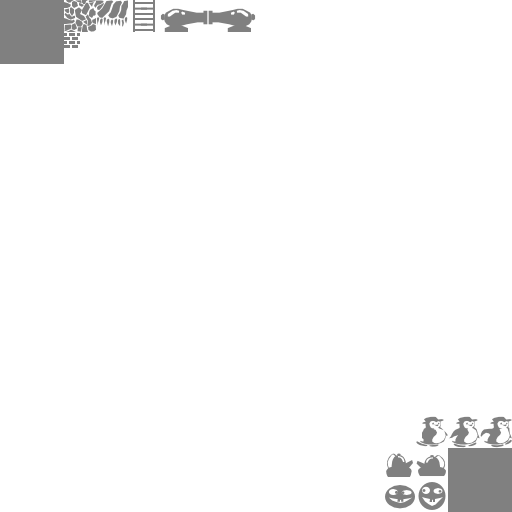
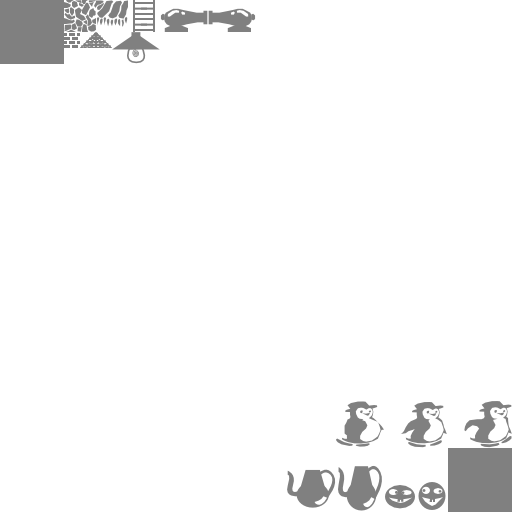
ermin right-sized

Changed region(s): [[0.5625, 0.7812, 1.0, 1.0], [0.6562, 0.7812, 0.75, 0.875], [0.1562, 0.0625, 0.3125, 0.125]]

diff --git a/src/rooms.js b/src/rooms.js
@@ -12,8 +12,8 @@ var DESCRIPTIONS = {
 }
 
 var ROOMS = {
-    start: [[0,0,0,0,0,0,0,0,0,0,0,0,0,0,0,0,0,0,0,0,0,0,0,0,0,0,0,0,0,0,8,0,3,0,3,0,3,0],[0,0,0,0,0,0,0,0,0,0,0,0,0,0,0,0,0,0,0,0,0,0,0,0,0,0,0,0,0,0,0,0,0,0,0,0,0,0],[0,0,0,0,0,0,0,0,0,0,0,0,0,0,0,0,0,0,0,0,0,0,0,0,0,0,0,0,0,0,8,0,3,0,3,0,3,0],[0,0,0,0,0,0,0,0,0,0,0,0,4,4,4,4,4,4,4,4,4,4,4,4,4,4,4,4,4,4,0,0,0,0,0,0,0,0],[0,0,0,0,0,0,0,0,0,0,0,4,0,0,0,0,0,0,0,0,0,0,0,0,0,0,0,0,0,0,8,0,3,0,3,0,3,0],[0,0,0,0,0,0,0,0,0,0,4,0,0,0,0,0,0,0,0,0,0,0,0,0,0,0,0,0,0,0,0,0,0,0,0,0,0,0],[0,0,0,0,0,0,0,0,0,0,0,4,0,4,0,0,0,0,0,0,0,0,0,0,0,0,0,0,0,0,8,0,3,0,3,0,3,0],[0,0,0,0,0,0,0,0,0,0,0,0,4,4,0,0,0,0,0,0,0,0,0,0,0,0,0,0,0,0,0,0,0,0,0,0,0,0],[0,0,0,0,0,0,0,0,0,0,0,0,0,4,0,0,0,0,0,0,0,0,0,0,0,0,0,0,0,0,8,0,3,0,3,0,3,0],[0,0,0,0,0,0,0,0,0,0,0,0,0,0,0,0,0,0,0,0,0,0,0,0,0,0,0,0,0,0,0,0,0,0,0,0,0,0],[0,0,0,0,0,0,0,0,0,0,0,0,0,0,0,0,0,0,0,0,0,0,0,0,0,0,0,0,0,0,8,0,3,0,3,0,3,0],[0,0,0,0,0,0,0,0,0,0,0,0,0,0,0,0,0,0,0,0,0,0,0,0,0,0,0,0,0,0,0,0,0,0,0,0,0,0],[0,0,0,0,0,0,0,0,0,0,0,0,0,0,0,0,0,0,0,0,0,0,0,0,0,0,0,0,0,0,8,0,3,0,3,0,3,0],[0,0,0,0,0,0,0,0,0,0,0,0,0,0,0,0,0,0,0,0,0,0,0,0,0,0,0,0,0,0,0,0,0,0,0,0,0,0],[0,0,0,0,0,0,0,0,0,0,0,0,0,0,0,0,0,0,0,0,0,0,0,0,0,0,0,0,0,0,8,0,3,0,3,0,3,0],[0,0,0,0,0,0,0,0,0,0,0,0,0,0,0,0,0,0,0,0,0,0,0,0,0,0,0,0,0,0,0,0,0,0,0,0,0,0],[0,0,0,0,0,0,0,0,0,0,0,0,0,0,0,0,0,0,0,0,0,0,0,0,0,0,0,0,0,0,8,0,3,0,3,0,3,0],[0,0,0,0,0,0,0,0,0,0,0,0,0,0,0,0,0,0,0,0,0,0,0,0,0,0,0,0,0,0,0,0,0,0,0,0,0,0],[0,0,0,0,0,0,0,0,0,0,0,0,0,0,0,0,0,0,0,0,0,0,0,0,0,0,0,0,0,0,8,0,3,0,3,0,3,0],[0,0,0,0,0,0,0,0,0,0,0,0,0,0,0,0,0,0,0,0,0,0,0,0,0,0,0,0,0,0,0,0,0,0,0,0,0,0],[0,0,0,0,0,0,0,0,0,0,0,0,0,0,0,0,0,0,0,0,0,0,0,0,0,0,0,0,0,0,8,0,3,0,3,0,3,0],[0,0,0,0,0,0,0,0,0,0,0,0,0,0,0,0,0,0,0,0,0,0,0,0,0,0,0,0,0,0,0,0,0,0,0,0,0,0],[0,0,0,0,0,0,0,0,0,0,0,0,0,0,0,0,0,0,0,0,0,0,0,0,0,0,0,0,0,0,8,0,3,0,3,0,3,0],[0,0,0,0,0,0,0,0,0,0,0,0,0,0,0,0,0,0,0,0,0,0,0,0,0,0,0,0,0,0,0,0,0,0,0,0,0,0],[0,0,0,0,0,0,0,0,0,0,0,0,0,0,0,0,0,0,0,0,0,0,0,0,0,0,0,0,0,0,8,0,3,0,3,0,3,0],[0,0,0,0,0,0,0,0,0,0,0,0,0,0,0,0,0,5,5,0,0,0,0,0,0,0,0,0,0,0,0,0,0,0,0,0,0,0],[0,0,0,0,0,0,0,0,0,0,0,0,0,0,0,0,0,5,5,0,14,0,0,0,0,0,0,0,0,0,8,0,3,0,3,0,3,0],[0,0,0,0,0,0,0,0,0,0,0,0,0,0,0,0,0,5,5,0,0,0,0,0,0,0,0,0,0,0,0,0,0,0,0,0,0,0],[0,0,0,0,0,0,0,0,0,0,0,0,0,0,0,0,0,5,5,0,0,0,0,0,0,0,0,0,0,0,8,0,3,0,3,0,3,0],[0,0,0,0,0,0,0,0,0,0,0,0,0,0,0,0,0,5,5,0,0,0,0,0,0,0,0,0,0,0,0,0,0,0,0,0,0,0],[0,0,0,0,0,0,0,0,0,0,0,0,0,0,0,0,5,4,1,0,1,0,1,0,1,0,0,0,0,0,8,0,3,0,3,0,3,0],[0,0,0,0,0,0,0,0,0,0,0,0,0,0,0,5,4,4,0,0,0,0,0,0,0,0,0,0,0,0,0,0,0,0,0,0,0,0],[0,0,0,0,0,0,0,0,0,0,0,0,0,0,5,4,4,4,1,0,1,0,1,0,1,0,0,0,0,0,8,0,3,0,3,0,3,0],[0,0,0,0,0,0,0,0,0,0,0,0,0,5,4,4,4,4,0,0,0,0,0,0,0,0,0,0,0,0,0,0,0,0,0,0,0,0],[0,0,0,0,0,0,0,0,0,0,0,0,5,4,4,4,4,0,1,0,1,0,0,0,0,0,0,0,0,0,8,0,3,0,3,0,3,0],[0,0,0,0,0,0,0,0,0,0,0,5,4,4,4,4,0,0,0,0,0,0,0,0,0,0,0,0,0,0,0,0,0,0,0,0,0,0],[0,0,0,0,0,0,0,0,0,0,5,4,4,4,4,0,0,0,1,0,1,0,0,0,0,0,0,0,0,0,8,0,3,0,3,0,3,0],[0,0,0,0,0,0,0,0,0,5,4,4,4,4,0,0,0,0,0,0,0,0,0,0,0,0,0,0,0,0,0,0,0,0,0,0,0,0],[0,0,0,0,0,0,0,0,5,4,4,4,4,0,0,0,0,0,1,0,1,0,0,0,0,0,0,0,0,0,8,0,3,0,3,0,3,0],[0,0,0,0,0,0,0,5,4,4,4,4,0,0,0,0,0,0,0,0,0,0,0,0,0,0,0,0,0,0,0,0,0,0,0,0,0,0],[0,0,0,0,0,0,5,4,4,4,4,0,0,0,0,0,0,0,1,0,1,0,0,0,0,0,0,0,0,0,8,0,3,0,3,0,3,0],[0,0,0,0,0,5,4,4,4,4,0,0,0,0,0,0,0,0,0,0,0,0,0,0,0,0,0,0,0,0,0,0,0,0,0,0,0,0],[0,0,0,0,5,4,4,4,4,0,0,0,0,0,0,0,0,0,1,0,1,0,0,0,0,0,0,0,0,0,8,0,3,0,3,0,3,0],[0,0,0,0,5,4,4,4,4,0,0,0,0,0,0,0,0,0,0,0,0,0,0,0,0,0,0,0,0,0,0,0,0,0,0,0,0,0],[0,0,0,0,5,4,4,4,4,0,0,0,0,0,0,0,0,0,1,0,1,0,0,0,0,0,0,0,0,0,8,0,3,0,3,0,3,0],[0,0,0,0,5,4,4,4,4,0,0,0,0,0,0,0,0,0,0,0,0,0,0,0,0,0,0,0,0,0,0,0,0,0,0,0,0,0],[0,0,0,0,5,4,4,4,4,0,0,0,0,0,0,0,0,0,1,0,1,0,0,0,0,0,0,0,0,0,8,0,3,0,3,0,3,0],[0,0,0,0,5,4,4,4,4,0,0,0,0,0,0,0,0,0,0,0,0,0,0,0,0,0,0,0,0,0,0,0,0,0,0,0,0,0],[0,0,0,0,1,0,1,0,1,0,0,0,0,0,0,0,0,0,1,0,1,0,0,0,0,0,0,0,0,0,8,0,3,0,3,0,3,0],[0,0,0,0,0,0,0,0,0,0,0,0,0,0,0,0,0,0,0,0,0,0,0,0,0,0,0,0,0,0,0,0,0,0,0,0,0,0]],
+    start: [[0,0,0,0,0,0,0,0,0,0,0,0,0,0,0,0,0,0,0,0,0,0,0,0,0,0,0,0,0,0,8,0,3,0,3,0,3,0],[0,0,0,0,0,0,0,0,0,0,0,0,0,0,0,0,0,0,0,0,0,0,0,0,0,0,0,0,0,0,0,0,0,0,0,0,0,0],[0,0,0,0,0,0,0,0,0,0,0,0,5,0,0,0,0,0,0,0,0,0,0,0,0,0,0,0,0,0,8,0,3,0,3,0,3,0],[0,0,0,0,0,0,0,0,0,0,0,15,5,5,5,5,4,4,4,4,4,4,4,4,4,4,4,4,4,4,0,0,0,0,0,0,0,0],[0,0,0,0,0,0,0,0,0,0,15,5,0,0,0,0,0,0,0,0,0,0,0,0,0,0,0,0,0,0,8,0,3,0,3,0,3,0],[0,0,0,0,0,0,0,0,0,0,5,0,0,0,0,0,0,0,0,0,0,0,0,0,0,0,0,0,0,0,0,0,0,0,0,0,0,0],[0,0,0,0,0,0,0,0,0,0,16,5,0,17,0,0,0,0,0,0,0,0,0,0,0,0,0,0,0,0,8,0,3,0,3,0,3,0],[0,0,0,0,0,0,0,0,0,0,0,16,5,0,0,0,0,0,0,0,0,0,0,0,0,0,0,0,0,0,0,0,0,0,0,0,0,0],[0,0,0,0,0,0,0,0,0,0,0,0,0,0,0,0,0,0,0,0,0,0,0,0,0,0,0,0,0,0,8,0,3,0,3,0,3,0],[0,0,0,0,0,0,0,0,0,0,0,0,0,0,0,0,0,0,0,0,0,0,0,0,0,0,0,0,0,0,0,0,0,0,0,0,0,0],[0,0,0,0,0,0,0,0,0,0,0,0,0,0,0,0,0,0,0,0,0,0,0,0,0,0,0,0,0,0,8,0,3,0,3,0,3,0],[0,0,0,0,0,0,0,0,0,0,0,0,0,0,0,0,0,0,0,0,0,0,0,0,0,0,0,0,0,0,0,0,0,0,0,0,0,0],[0,0,0,0,0,0,0,0,0,0,0,0,0,0,0,0,0,0,0,0,0,0,0,0,0,0,0,0,0,0,8,0,3,0,3,0,3,0],[0,0,0,0,0,0,0,0,0,0,0,0,0,0,0,0,0,0,0,0,0,0,0,0,0,0,0,0,0,0,0,0,0,0,0,0,0,0],[0,0,0,0,0,0,0,0,0,0,0,0,0,0,0,0,0,0,0,0,0,0,0,0,0,0,0,0,0,0,8,0,3,0,3,0,3,0],[0,0,0,0,0,0,0,0,0,0,0,0,0,0,0,0,0,0,0,0,0,0,0,0,0,0,0,0,0,0,0,0,0,0,0,0,0,0],[0,0,0,0,0,0,0,0,0,0,0,0,0,0,0,0,0,0,0,0,0,0,0,0,0,0,0,0,0,0,8,0,3,0,3,0,3,0],[0,0,0,0,0,0,0,0,0,0,0,0,0,0,0,0,0,0,0,0,0,0,0,0,0,0,0,0,0,0,0,0,0,0,0,0,0,0],[0,0,0,0,0,0,0,0,0,0,0,0,0,0,0,0,0,0,0,0,0,0,0,0,0,0,0,0,0,0,8,0,3,0,3,0,3,0],[0,0,0,0,0,0,0,0,0,0,0,0,0,0,0,0,0,0,0,0,0,0,0,0,0,0,0,0,0,0,0,0,0,0,0,0,0,0],[0,0,0,0,0,0,0,0,0,0,0,0,0,0,0,0,0,0,0,0,0,0,0,0,0,0,0,0,0,0,8,0,3,0,3,0,3,0],[0,0,0,0,0,0,0,0,0,0,0,0,0,0,0,0,0,0,0,0,0,0,0,0,0,0,0,0,0,0,0,0,0,0,0,0,0,0],[0,0,0,0,0,0,0,0,0,0,0,0,0,0,0,0,0,0,0,0,0,0,0,0,0,0,0,0,0,0,8,0,3,0,3,0,3,0],[0,0,0,0,0,0,0,0,0,0,0,0,0,0,0,0,0,0,0,0,0,0,0,0,0,0,0,0,0,0,0,0,0,0,0,0,0,0],[0,0,0,0,0,0,0,0,0,0,0,0,0,0,0,0,0,0,0,0,0,0,0,0,0,0,0,0,0,0,8,0,3,0,3,0,3,0],[0,0,0,0,0,0,0,0,0,0,0,0,0,0,0,0,0,5,5,0,0,0,0,0,0,0,0,0,0,0,0,0,0,0,0,0,0,0],[0,0,0,0,0,0,0,0,0,0,0,0,0,0,0,0,0,5,5,0,14,0,0,0,0,0,0,0,0,0,8,0,3,0,3,0,3,0],[0,0,0,0,0,0,0,0,0,0,0,0,0,0,0,0,0,5,5,0,0,0,0,0,0,0,0,0,0,0,0,0,0,0,0,0,0,0],[0,0,0,0,0,0,0,0,0,0,0,0,0,0,0,0,0,5,5,0,0,0,0,0,0,0,0,0,0,0,8,0,3,0,3,0,3,0],[0,0,0,0,0,0,0,0,0,0,0,0,0,0,0,0,15,5,5,0,0,0,0,0,0,0,0,0,0,0,0,0,0,0,0,0,0,0],[0,0,0,0,0,0,0,0,0,0,0,0,0,0,0,15,5,4,1,0,1,0,1,0,1,0,0,0,0,0,8,0,3,0,3,0,3,0],[0,0,0,0,0,0,0,0,0,0,0,0,0,0,15,5,4,4,0,0,0,0,0,0,0,0,0,0,0,0,0,0,0,0,0,0,0,0],[0,0,0,0,0,0,0,0,0,0,0,0,0,15,5,4,4,4,1,0,1,0,1,0,1,0,0,0,0,0,8,0,3,0,3,0,3,0],[0,0,0,0,0,0,0,0,0,0,0,0,15,5,4,4,4,4,0,0,0,0,0,0,0,0,0,0,0,0,0,0,0,0,0,0,0,0],[0,0,0,0,0,0,0,0,0,0,0,15,5,4,4,4,4,0,1,0,1,0,0,0,0,0,0,0,0,0,8,0,3,0,3,0,3,0],[0,0,0,0,0,0,0,0,0,0,15,5,4,4,4,4,0,0,0,0,0,0,0,0,0,0,0,0,0,0,0,0,0,0,0,0,0,0],[0,0,0,0,0,0,0,0,0,15,5,4,4,4,4,0,0,0,1,0,1,0,0,0,0,0,0,0,0,0,8,0,3,0,3,0,3,0],[0,0,0,0,0,0,0,0,15,5,4,4,4,4,0,0,0,0,0,0,0,0,0,0,0,0,0,0,0,0,0,0,0,0,0,0,0,0],[0,0,0,0,0,0,0,15,5,4,4,4,4,0,0,0,0,0,1,0,1,0,0,0,0,0,0,0,0,0,8,0,3,0,3,0,3,0],[0,0,0,0,0,0,15,5,4,4,4,4,0,0,0,0,0,0,0,0,0,0,0,0,0,0,0,0,0,0,0,0,0,0,0,0,0,0],[0,0,0,0,0,15,5,4,4,4,4,0,0,0,0,0,0,0,1,0,1,0,0,0,0,0,0,0,0,0,8,0,3,0,3,0,3,0],[0,0,0,0,15,5,4,4,4,4,0,0,0,0,0,0,0,0,0,0,0,0,0,0,0,0,0,0,0,0,0,0,0,0,0,0,0,0],[0,0,0,0,5,4,4,4,4,0,0,0,0,0,0,0,0,0,1,0,1,0,0,0,0,0,0,0,0,0,8,0,3,0,3,0,3,0],[0,0,0,0,5,4,4,4,4,0,0,0,0,0,0,0,0,0,0,0,0,0,0,0,0,0,0,0,0,0,0,0,0,0,0,0,0,0],[0,0,0,0,5,4,4,4,4,0,0,0,0,0,0,0,0,0,1,0,1,0,0,0,0,0,0,0,0,0,8,0,3,0,3,0,3,0],[0,0,0,0,5,4,4,4,4,0,0,0,0,0,0,0,0,0,0,0,0,0,0,0,0,0,0,0,0,0,0,0,0,0,0,0,0,0],[0,0,0,0,5,4,4,4,4,0,0,0,0,0,0,0,0,0,1,0,1,0,0,0,0,0,0,0,0,0,8,0,3,0,3,0,3,0],[0,0,0,0,5,4,4,4,4,0,0,0,0,0,0,0,0,0,0,0,0,0,0,0,0,0,0,0,0,0,0,0,0,0,0,0,0,0],[0,0,0,0,1,0,1,0,1,0,0,0,0,0,0,0,0,0,1,0,1,0,0,0,0,0,0,0,0,0,8,0,3,0,3,0,3,0],[0,0,0,0,0,0,0,0,0,0,0,0,0,0,0,0,0,0,0,0,0,0,0,0,0,0,0,0,0,0,0,0,0,0,0,0,0,0]],
     entryway: [[4,4,4,4,4,4,4,4,0,0,0,0,0,0,0,0,0,0,1,0,1,0,0,0,0,0,0,0,0,0,8,0,3,0,3,0,3,0],[4,4,4,4,4,4,4,4,0,0,0,0,0,0,0,0,0,0,0,0,0,0,0,0,0,0,0,0,0,0,0,0,0,0,0,0,0,0],[4,4,4,4,4,4,4,4,0,0,0,0,0,0,0,0,0,0,1,0,1,0,0,0,0,0,0,0,0,0,8,0,3,0,3,0,3,0],[4,4,4,4,4,4,4,4,0,0,0,0,0,0,0,0,0,0,0,0,0,0,0,0,0,0,0,0,0,0,0,0,0,0,0,0,0,0],[4,4,4,4,4,4,4,4,0,0,0,0,0,0,0,0,0,0,1,0,1,0,0,0,0,0,0,0,0,0,8,0,3,0,3,0,3,0],[4,4,4,4,4,4,4,4,0,0,0,0,0,0,0,0,0,0,0,0,0,0,0,0,0,0,0,0,0,0,0,0,0,0,0,0,0,0],[4,4,4,4,4,4,4,4,0,0,0,0,0,0,0,0,0,0,1,0,1,0,0,0,0,0,0,0,0,0,8,0,3,0,3,0,3,0],[4,4,4,4,4,4,4,4,0,0,0,0,0,0,0,0,0,0,0,0,0,0,0,0,0,0,0,0,0,0,0,0,0,0,0,0,0,0],[4,4,4,4,4,4,4,4,0,0,0,0,0,0,0,0,0,0,1,0,1,0,0,0,0,0,0,0,0,0,8,0,3,0,3,0,3,0],[4,4,4,4,4,4,4,4,0,0,0,0,0,0,0,0,0,0,0,0,0,0,0,0,0,0,0,0,0,0,0,0,0,0,0,0,0,0],[4,4,4,4,4,4,4,4,0,0,0,0,0,0,0,0,0,0,1,0,1,0,0,0,0,0,0,0,0,0,8,0,3,0,3,0,3,0],[4,4,0,0,0,10,0,4,0,0,0,0,0,0,0,0,0,0,0,0,0,0,0,0,0,0,0,0,0,0,0,0,0,0,0,0,0,0],[1,0,0,0,0,0,0,4,0,0,0,0,0,0,0,0,0,0,1,0,1,0,0,0,0,0,0,0,0,0,8,0,3,0,3,0,3,0],[0,0,0,0,0,0,0,4,0,0,0,0,0,0,0,0,0,0,0,0,0,0,0,0,0,0,0,0,0,0,0,0,0,0,0,0,0,0],[1,0,0,0,0,0,0,4,0,0,0,0,1,0,0,0,0,0,1,0,1,0,0,0,0,0,0,0,0,0,8,0,3,0,3,0,3,0],[0,0,0,0,0,0,0,0,0,0,0,0,0,0,0,0,0,0,0,0,0,0,0,0,0,0,0,0,0,0,0,0,0,0,0,0,0,0],[1,0,0,0,0,0,0,0,0,0,0,0,1,0,0,0,0,0,1,0,1,0,0,0,0,0,0,0,0,0,8,0,3,0,3,0,3,0],[0,0,0,0,0,0,0,0,0,0,0,0,0,0,0,0,0,0,0,0,0,0,0,0,0,0,0,0,0,0,0,0,0,0,0,0,0,0],[1,0,0,0,0,0,0,0,0,0,0,0,1,0,0,0,0,0,1,0,1,0,0,0,0,0,0,0,0,0,0,0,3,0,3,0,3,0],[0,0,0,0,0,0,0,0,0,0,0,0,0,0,0,0,0,0,0,0,0,0,0,0,0,0,0,0,0,0,0,0,0,0,0,0,0,0],[1,0,0,0,0,0,0,0,0,0,0,0,1,0,0,0,0,0,1,0,1,0,1,0,0,0,0,0,0,0,0,0,0,0,3,0,3,0],[0,0,0,0,0,0,0,0,0,0,0,0,0,0,0,0,0,0,0,0,0,0,0,0,0,0,0,0,0,0,0,0,0,0,0,0,0,0],[1,0,0,0,0,0,0,0,0,0,9,0,9,0,9,0,9,0,1,0,1,0,1,0,0,0,0,0,0,0,0,0,0,0,0,0,3,0],[0,0,0,0,0,0,0,0,0,0,0,0,0,0,0,0,0,0,0,0,0,0,0,0,0,0,0,0,0,0,0,0,0,0,0,0,0,0],[1,0,0,0,0,0,0,0,0,0,0,0,1,0,0,0,0,0,0,0,0,0,1,0,0,0,0,0,0,0,0,0,0,0,0,0,3,0],[0,0,0,0,0,0,0,0,0,0,0,0,0,0,0,0,0,0,0,0,0,0,0,0,0,0,0,0,0,0,0,0,0,0,0,0,0,0],[1,0,0,0,0,0,0,0,0,0,0,0,1,0,0,0,0,0,0,0,0,0,1,0,0,0,0,0,1,0,0,0,0,0,13,0,3,0],[0,0,0,0,0,0,0,0,0,0,0,0,0,0,0,0,0,0,0,0,0,0,0,0,0,0,0,0,0,0,0,0,0,0,0,0,0,0],[1,0,0,0,0,0,0,0,0,0,13,0,1,0,0,0,0,0,0,0,0,0,1,0,0,0,0,0,1,0,0,0,0,0,0,0,3,0],[0,0,0,0,0,0,0,0,0,0,0,0,0,0,0,0,0,0,0,0,0,0,0,0,0,0,0,0,0,0,0,0,0,0,0,0,0,0],[1,0,0,0,0,0,0,0,0,0,0,0,1,0,0,0,0,0,0,0,0,0,1,0,0,0,0,0,1,0,0,0,0,0,0,0,3,0],[0,0,0,0,0,0,0,0,0,0,0,0,0,0,0,0,0,0,0,0,0,0,0,0,0,0,0,0,0,0,0,0,0,0,0,0,0,0],[1,0,0,0,0,0,0,0,0,0,0,0,1,0,0,0,0,0,0,0,0,0,0,0,0,0,0,0,1,0,0,0,0,0,0,0,3,0],[0,0,0,0,0,0,0,0,0,0,0,0,0,0,0,0,0,0,0,0,0,0,0,0,0,0,0,0,0,0,0,0,0,0,0,0,0,0],[2,0,2,0,2,0,2,0,2,0,2,0,2,0,2,0,2,0,0,0,0,0,0,0,0,0,0,0,1,0,0,0,0,0,0,0,3,0],[0,0,0,0,0,0,0,0,0,0,0,0,0,0,0,0,0,0,0,0,0,0,0,0,0,0,0,0,0,0,0,0,0,0,0,0,0,0],[0,0,0,0,0,0,0,0,0,0,2,0,0,0,0,0,2,0,0,0,0,0,9,0,9,0,9,0,9,0,9,0,9,0,9,0,3,0],[0,0,0,0,0,0,0,0,0,0,0,0,0,0,0,0,0,0,0,0,0,0,0,0,0,0,0,0,0,0,0,0,0,0,0,0,0,0],[0,0,0,0,0,0,0,0,0,0,2,0,0,0,0,0,2,0,0,0,13,0,2,0,0,0,0,0,0,0,0,0,0,0,0,0,3,0],[0,0,0,0,0,0,0,0,0,0,0,0,0,0,0,0,0,0,0,0,0,0,0,0,0,0,0,0,0,0,0,0,0,0,0,0,0,0],[0,0,0,0,0,0,0,0,0,0,2,0,0,0,0,0,2,0,0,0,0,0,2,0,0,0,0,0,0,0,0,0,0,0,0,0,3,0],[0,0,0,0,0,0,0,0,0,0,0,0,0,0,0,0,0,0,0,0,0,0,0,0,0,0,0,0,0,0,0,0,0,0,0,0,0,0],[0,0,0,0,2,0,0,0,0,0,0,0,0,0,0,0,2,0,0,0,0,0,2,0,0,0,0,0,0,0,0,0,0,0,0,0,3,0],[0,0,0,0,0,0,0,0,0,0,0,0,0,0,0,0,0,0,0,0,0,0,0,0,0,0,0,0,0,0,0,0,0,0,0,0,0,0],[0,0,0,0,2,0,0,0,0,0,0,0,0,0,0,0,2,0,0,0,0,0,2,0,0,0,0,0,0,0,0,0,0,0,0,0,3,0],[0,0,0,0,0,0,0,0,0,0,0,0,0,0,0,0,0,0,0,0,0,0,0,0,0,0,0,0,0,0,0,0,0,0,0,0,0,0],[0,0,0,0,2,0,0,0,0,0,0,0,0,0,0,0,2,0,0,0,0,0,2,0,0,0,0,0,0,0,0,0,0,0,0,0,3,0],[0,0,0,0,0,0,0,0,0,0,0,0,0,0,0,0,0,0,0,0,0,0,0,0,0,0,0,0,0,0,0,0,0,0,0,0,0,0],[0,0,0,0,2,0,0,0,0,0,0,0,0,0,0,0,2,0,0,0,0,0,2,0,0,0,0,0,0,0,0,0,0,0,0,0,3,0],[0,0,0,0,0,0,0,0,0,0,0,0,0,0,0,0,0,0,0,0,0,0,0,0,0,0,0,0,0,0,0,0,0,0,0,0,0,0]],
-    drawing_room: [[0,0,0,0,2,0,0,0,0,0,0,0,0,0,0,0,2,0,0,0,0,0,2,0,0,0,0,0,0,0,0,0,0,0,0,0,3,0],[0,0,0,0,0,0,0,0,0,0,0,0,0,0,0,0,0,0,0,0,0,0,0,0,0,0,0,0,0,0,0,0,0,0,0,0,0,0],[0,0,0,0,2,0,2,0,0,0,0,0,0,0,0,0,2,0,0,0,0,0,2,0,0,0,0,0,0,0,0,0,0,0,0,0,3,0],[0,0,0,0,0,0,0,0,0,0,0,0,0,0,0,0,0,0,0,0,0,0,0,0,0,0,0,0,0,0,0,0,0,0,0,0,0,0],[0,0,0,0,0,0,2,0,0,0,0,0,0,0,3,0,2,0,0,0,0,0,2,0,0,0,0,0,0,0,0,0,0,0,0,0,3,0],[0,0,0,0,0,0,0,0,0,0,0,0,0,0,0,0,0,0,0,0,0,0,0,0,0,0,0,0,0,0,0,0,0,0,0,0,0,0],[0,0,0,0,0,0,0,0,0,0,0,0,3,0,3,0,2,0,0,0,0,0,2,0,0,0,0,0,0,0,0,0,0,0,0,0,3,0],[0,0,0,0,0,0,0,0,0,0,11,0,0,0,0,0,0,0,0,0,0,0,0,0,0,0,0,0,0,0,0,0,0,0,0,0,0,0],[0,0,0,0,0,0,0,0,0,0,0,0,3,0,3,0,2,0,0,0,0,0,2,0,0,0,0,0,0,0,0,0,0,0,0,0,3,0],[0,0,0,0,0,0,0,0,0,0,0,0,0,0,0,0,0,0,0,0,0,0,0,0,0,0,0,0,0,0,0,0,0,0,0,0,0,0],[0,0,0,0,0,0,0,0,0,0,3,0,3,0,3,0,2,0,0,0,0,0,9,0,9,0,9,0,9,0,9,0,9,0,0,0,3,0],[0,0,0,0,0,0,0,0,0,0,0,0,0,0,0,0,0,0,0,0,0,0,0,0,0,0,0,0,0,0,0,0,0,0,0,0,0,0],[3,0,3,0,3,0,0,0,0,0,3,0,3,0,3,0,2,0,0,0,0,0,2,0,0,0,0,0,0,0,0,0,0,0,0,0,3,0],[0,0,0,0,0,0,0,0,0,0,0,0,0,0,0,0,0,0,0,0,0,0,0,0,0,0,0,0,0,0,0,0,0,0,0,0,0,0],[3,0,0,0,0,0,0,0,0,0,0,0,0,0,3,0,2,0,0,0,0,0,2,0,0,0,14,0,0,0,0,0,0,0,0,0,3,0],[0,0,0,0,0,0,0,0,0,0,0,0,0,0,0,0,0,0,0,0,0,0,0,0,0,0,0,0,0,0,0,0,0,0,0,0,0,0],[3,0,0,0,0,0,0,0,0,0,0,0,0,0,3,0,2,0,2,0,2,0,2,0,2,0,2,0,2,0,2,0,0,0,0,0,3,0],[0,0,0,0,0,0,0,0,0,0,0,0,0,0,0,0,0,0,0,0,0,0,0,0,0,0,0,0,0,0,0,0,0,0,0,0,0,0],[3,0,0,0,0,0,0,0,0,0,0,0,0,0,3,0,0,0,0,0,0,0,0,0,0,0,0,0,4,4,4,4,0,0,0,0,3,0],[0,0,0,0,0,0,0,0,0,0,0,0,0,0,0,0,0,0,0,0,0,0,0,0,0,0,0,0,0,4,4,4,0,0,0,0,0,0],[3,0,0,0,0,0,0,0,0,0,0,0,0,0,3,0,0,0,0,0,0,0,3,0,0,0,0,0,0,0,4,4,0,0,0,0,3,0],[0,0,0,0,0,0,0,0,0,0,0,0,0,0,0,0,0,0,0,0,0,0,0,0,0,0,0,0,0,0,0,4,0,0,0,0,0,0],[3,0,0,0,0,0,0,0,0,0,0,0,0,0,9,0,9,0,9,0,0,0,3,0,0,0,0,0,0,0,0,0,0,0,0,0,3,0],[0,0,0,0,0,0,0,0,0,0,0,0,0,0,0,0,0,0,0,0,0,0,0,0,0,0,0,0,0,0,0,0,0,0,0,0,0,0],[3,0,0,0,0,0,0,0,0,0,14,0,0,0,0,0,0,0,0,0,0,0,3,0,0,0,0,0,0,0,0,0,0,0,13,0,3,0],[0,0,0,0,0,0,0,0,0,0,0,0,0,0,0,0,0,0,0,0,0,0,0,0,0,0,0,0,0,0,0,0,0,0,0,0,0,0],[3,0,0,0,0,0,0,0,0,0,3,0,0,0,0,0,0,0,0,0,0,0,9,0,9,0,9,0,9,0,0,0,0,0,0,0,3,0],[0,0,0,0,0,0,0,0,0,0,0,0,0,0,0,0,0,0,0,0,0,0,0,0,0,0,0,0,0,0,0,0,0,0,0,0,0,0],[3,0,0,0,0,0,0,0,0,0,3,0,0,0,0,0,0,0,0,0,0,0,0,0,0,0,0,0,0,0,0,0,0,0,0,0,3,0],[0,0,0,0,0,0,0,0,0,0,0,0,0,0,0,0,0,0,0,0,0,0,0,0,0,0,0,0,0,0,0,0,0,0,0,0,0,0],[3,0,0,0,0,0,0,0,0,0,3,0,0,0,0,0,0,0,0,0,0,0,0,0,0,0,0,0,0,0,0,0,4,4,4,4,3,0],[0,0,0,0,0,0,0,0,0,0,0,0,0,0,0,0,0,0,0,0,0,0,0,0,0,0,0,0,0,0,0,4,4,4,4,4,0,0],[3,0,0,0,0,0,0,0,0,0,3,0,0,0,0,0,0,0,0,0,0,0,0,0,0,0,0,0,0,0,4,4,4,4,4,4,3,0],[0,0,0,0,0,0,0,0,0,0,0,0,0,0,0,0,0,0,0,0,0,0,0,0,0,0,0,0,0,4,4,4,4,4,4,4,0,0],[3,0,0,0,0,0,0,0,0,0,3,0,0,0,0,0,0,0,0,0,0,0,0,0,0,0,0,0,4,4,4,4,4,4,4,4,3,0],[0,0,0,0,0,0,0,0,0,0,0,0,0,0,0,0,0,0,0,0,0,0,0,0,0,0,0,4,4,4,4,4,4,4,4,4,0,0],[3,0,3,0,0,0,0,0,0,0,3,0,3,0,3,0,3,0,3,0,3,0,3,0,3,0,4,4,4,4,4,4,4,4,4,4,3,0],[0,0,0,0,0,0,0,0,0,0,0,0,0,0,0,0,0,0,0,0,0,0,0,0,0,0,4,4,4,4,4,4,0,0,0,0,0,0],[3,0,3,0,0,0,0,0,0,0,0,0,3,0,0,0,0,0,0,0,0,0,0,0,0,0,4,4,4,4,4,0,0,0,0,0,3,0],[0,0,0,0,0,0,0,0,0,0,0,0,0,0,0,0,0,0,0,0,0,0,0,0,0,0,4,4,4,4,0,0,0,0,0,0,0,0],[3,0,3,0,0,0,0,0,0,0,0,0,3,0,0,0,13,0,3,0,0,0,0,0,0,0,4,4,4,0,0,0,0,0,0,0,3,0],[0,0,0,0,0,0,0,0,0,0,0,0,0,0,0,0,0,0,0,0,0,0,0,0,0,0,4,4,4,0,0,0,0,0,0,0,0,0],[3,0,3,0,0,0,3,0,0,0,0,0,9,0,9,0,0,0,3,0,0,0,0,0,0,0,4,4,0,0,0,0,0,0,0,0,3,0],[0,0,0,0,11,0,0,0,0,0,0,0,0,0,0,0,0,0,0,0,9,0,9,0,9,0,9,0,9,0,9,0,9,0,0,0,0,0],[3,0,3,0,0,0,3,0,0,0,0,0,3,0,0,0,0,0,3,0,0,0,0,0,0,0,0,0,0,0,0,0,0,0,0,0,3,0],[0,0,0,0,0,0,0,0,0,0,0,0,0,0,0,0,0,0,0,0,0,0,0,0,0,0,4,4,0,0,0,0,0,0,0,0,0,0],[3,0,3,0,3,0,3,0,0,0,0,0,3,0,0,0,0,0,0,0,0,0,0,0,0,0,4,4,4,0,0,0,0,0,0,0,3,0],[0,0,0,0,0,0,0,0,0,0,0,0,0,0,0,0,0,0,0,0,0,0,0,0,0,0,4,4,4,4,0,0,0,0,0,0,0,0],[3,0,3,0,3,0,3,0,3,0,3,0,3,0,3,0,3,0,3,0,3,0,3,0,3,0,3,0,3,0,3,0,0,0,0,0,3,0],[0,0,0,0,0,0,0,0,0,0,0,0,0,0,0,0,0,0,0,0,0,0,0,0,0,0,0,0,0,0,0,0,0,0,0,0,0,0]],
+    drawing_room: [[0,0,0,0,2,0,0,0,0,0,0,0,0,0,0,0,2,0,0,0,0,0,2,0,0,0,0,0,0,0,0,0,0,0,0,0,3,0],[0,0,0,0,0,0,0,0,0,0,0,0,0,0,0,0,0,0,0,0,0,0,0,0,0,0,0,0,0,0,0,0,0,0,0,0,0,0],[0,0,0,0,2,0,2,0,0,0,0,0,0,0,0,0,2,0,0,0,0,0,2,0,0,0,0,0,0,0,0,0,0,0,0,0,3,0],[0,0,0,0,0,0,0,0,0,0,0,0,0,0,0,0,0,0,0,0,0,0,0,0,0,0,0,0,0,0,0,0,0,0,0,0,0,0],[0,0,0,0,0,0,2,0,0,0,0,0,0,0,3,0,2,0,0,0,0,0,2,0,0,0,0,0,0,0,0,0,0,0,0,0,3,0],[0,0,0,0,0,0,0,0,0,0,0,0,0,0,0,0,0,0,0,0,0,0,0,0,0,0,0,0,0,0,0,0,0,0,0,0,0,0],[0,0,0,0,0,0,0,0,0,0,0,0,3,0,3,0,2,0,0,0,0,0,2,0,0,0,0,0,0,0,0,0,0,0,0,0,3,0],[0,0,0,0,0,0,0,0,0,0,0,0,0,0,0,0,0,0,0,0,0,0,0,0,0,0,0,0,0,0,0,0,0,0,0,0,0,0],[0,0,0,0,0,0,0,0,0,0,0,0,3,0,3,0,2,0,0,0,0,0,2,0,0,0,0,0,0,0,0,0,0,0,0,0,3,0],[0,0,0,0,0,0,0,0,0,0,0,0,0,0,0,0,0,0,0,0,0,0,0,0,0,0,0,0,0,0,0,0,0,0,0,0,0,0],[0,0,0,0,0,0,0,0,0,0,3,0,3,0,3,0,2,0,0,0,0,0,9,0,9,0,9,0,9,0,9,0,9,0,0,0,3,0],[0,0,0,0,0,0,0,0,0,0,0,0,0,0,0,0,0,0,0,0,0,0,0,0,0,0,0,0,0,0,0,0,0,0,0,0,0,0],[3,0,3,0,3,0,0,0,0,0,3,0,3,0,3,0,2,0,0,0,0,0,2,0,0,14,0,0,0,0,0,0,0,0,0,0,3,0],[0,0,0,0,0,0,0,0,0,0,0,0,0,0,0,0,0,0,0,0,0,0,0,0,0,0,0,0,0,0,0,0,0,0,0,0,0,0],[3,0,0,0,0,0,0,0,0,0,0,0,0,0,3,0,2,0,0,0,0,0,2,0,0,0,0,0,0,0,0,0,0,0,0,0,3,0],[0,0,0,0,0,0,0,0,0,0,0,0,0,0,0,0,0,0,0,0,0,0,0,0,0,0,0,0,0,0,0,0,0,0,0,0,0,0],[3,0,0,0,0,0,0,0,0,0,0,0,0,0,3,0,2,0,2,0,2,0,2,0,2,0,2,0,2,0,2,0,0,0,0,0,3,0],[0,0,0,0,0,0,0,0,0,0,0,0,0,0,0,0,0,0,0,0,0,0,0,0,0,0,0,0,0,0,0,0,0,0,0,0,0,0],[3,0,0,0,0,0,0,0,0,0,0,0,0,0,3,0,0,0,0,0,0,0,0,0,0,0,0,0,4,4,4,4,0,0,0,0,3,0],[0,0,0,0,0,0,0,0,0,0,0,0,0,0,0,0,0,0,0,0,0,0,0,0,0,0,0,0,0,4,4,4,0,0,0,0,0,0],[3,0,0,0,0,0,0,0,0,0,0,0,0,0,3,0,0,0,0,0,0,0,3,0,0,0,0,0,0,0,4,4,0,0,0,0,3,0],[0,0,0,0,0,0,0,0,0,0,0,0,0,0,0,0,0,0,0,0,0,0,0,0,0,0,0,0,0,0,0,4,0,0,0,0,0,0],[3,0,0,0,0,0,0,0,0,0,0,0,0,0,9,0,9,0,9,0,0,0,3,0,0,0,0,0,0,0,0,0,0,0,0,0,3,0],[0,0,0,0,0,0,0,0,0,0,0,0,0,0,0,0,0,0,0,0,0,0,0,0,0,0,0,0,0,0,0,0,0,0,0,0,0,0],[3,0,0,0,0,0,0,0,0,0,0,0,0,14,0,0,0,0,0,0,0,0,3,0,0,0,0,0,0,0,0,0,0,0,13,0,3,0],[0,0,0,0,0,0,0,0,0,0,0,0,0,0,0,0,0,0,0,0,0,0,0,0,0,0,0,0,0,0,0,0,0,0,0,0,0,0],[3,0,0,0,0,0,0,0,0,0,3,0,0,0,0,0,0,0,0,0,0,0,9,0,9,0,9,0,9,0,0,0,0,0,0,0,3,0],[0,0,0,0,0,0,0,0,0,0,0,0,0,0,0,0,0,0,0,0,0,0,0,0,0,0,0,0,0,0,0,0,0,0,0,0,0,0],[3,0,0,0,0,0,0,0,0,0,3,0,0,0,0,0,0,0,0,0,0,0,0,0,0,0,0,0,0,0,0,0,0,0,0,0,3,0],[0,0,0,0,0,0,0,0,0,0,0,0,0,0,0,0,0,0,0,0,0,0,0,0,0,0,0,0,0,0,0,0,0,0,0,0,0,0],[3,0,0,0,0,0,0,0,0,0,3,0,0,0,0,0,0,0,0,0,0,0,0,0,0,0,0,0,0,0,0,0,4,4,4,4,3,0],[0,0,0,0,0,0,0,0,0,0,0,0,0,0,0,0,0,0,0,0,0,0,0,0,0,0,0,0,0,0,0,4,4,4,4,4,0,0],[3,0,0,0,0,0,0,0,0,0,3,0,0,0,0,0,0,0,0,0,0,0,0,0,0,0,0,0,0,0,4,4,4,4,4,4,3,0],[0,0,0,0,0,0,0,0,0,0,0,0,0,0,0,0,0,0,0,0,0,0,0,0,0,0,0,0,0,4,4,4,4,4,4,4,0,0],[3,0,0,0,0,0,0,0,0,0,3,0,0,0,0,0,0,0,0,0,0,0,0,0,0,0,0,0,4,4,4,4,4,4,4,4,3,0],[0,0,0,0,0,0,0,0,0,0,0,0,0,0,0,0,0,0,0,0,0,0,0,0,0,0,0,4,4,4,4,4,4,4,4,4,0,0],[3,0,3,0,0,0,0,0,0,0,3,0,3,0,3,0,3,0,3,0,3,0,3,0,3,0,4,4,4,4,4,4,4,4,4,4,3,0],[0,0,0,0,0,0,0,0,0,0,0,0,0,0,0,0,0,0,0,0,0,0,0,0,0,0,4,4,4,4,4,4,0,0,0,0,0,0],[3,0,3,0,0,0,0,0,0,0,0,0,3,0,0,0,0,0,0,0,0,0,0,0,0,0,4,4,4,4,4,0,0,0,0,0,3,0],[0,0,0,0,0,0,0,0,0,0,0,0,0,0,0,0,0,0,0,0,0,0,0,0,0,0,4,4,4,4,0,0,0,0,0,0,0,0],[3,0,3,0,0,0,0,0,0,0,0,0,3,0,0,0,13,0,3,0,0,0,0,0,0,0,4,4,4,0,0,0,0,0,0,0,3,0],[0,0,0,0,0,0,0,0,0,0,0,0,0,0,0,0,0,0,0,0,0,0,0,0,0,0,4,4,4,0,0,0,0,0,0,0,0,0],[3,0,3,0,0,0,3,0,0,0,0,0,9,0,9,0,0,0,3,0,0,0,0,0,0,0,4,4,0,0,0,0,0,0,0,0,3,0],[0,0,0,0,11,0,0,0,0,0,0,0,0,0,0,0,0,0,0,0,9,0,9,0,9,0,9,0,9,0,9,0,9,0,0,0,0,0],[3,0,3,0,0,0,3,0,0,0,0,0,3,0,0,0,0,0,3,0,0,0,0,0,0,0,0,0,0,0,0,0,0,0,0,0,3,0],[0,0,0,0,0,0,0,0,0,0,0,0,0,0,0,0,0,0,0,0,0,0,0,0,0,0,4,4,0,0,0,0,0,0,0,0,0,0],[3,0,3,0,3,0,3,0,0,0,0,0,3,0,0,0,0,0,0,0,0,0,0,0,0,0,4,4,4,0,0,0,0,0,0,0,3,0],[0,0,0,0,0,0,0,0,0,0,0,0,0,0,0,0,0,0,0,0,0,0,0,0,0,0,4,4,4,4,0,0,0,0,0,0,0,0],[3,0,3,0,3,0,3,0,3,0,3,0,3,0,3,0,3,0,3,0,3,0,3,0,3,0,3,0,3,0,3,0,0,0,0,0,3,0],[0,0,0,0,0,0,0,0,0,0,0,0,0,0,0,0,0,0,0,0,0,0,0,0,0,0,0,0,0,0,0,0,0,0,0,0,0,0]],
 
 };

diff --git a/src/textures.js b/src/textures.js
@@ -3,15 +3,18 @@ var BLOCK_SIZE = 16;
 TEXTURES = {
     wall1: { x: 4, y: 0, w: 2, h: 2 },
     brick1: { x: 4, y: 2, w: 1, h: 1 },
+    roof1: { x: 5, y: 2, w: 1, h: 1 },
+    roof2: { x: 6, y: 2, w: 1, h: 1 },
     floor1: { x: 6, y: 0, w: 2, h: 2 },
     ladder1: { x: 8, y: 0, w: 2, h: 2 },
     cannon1: { x: 10, y: 0, w: 3, h: 2 },
     cannon2: { x: 13, y: 0, w: 3, h: 2 },
     baddy1: { x: 24, y: 30, w: 2, h: 2 },
     baddy2: { x: 26, y: 30, w: 2, h: 2 },
-    kettle1: { x: 24, y: 28, w: 2, h: 2 },
-    kettle2: { x: 26, y: 28, w: 2, h: 2 },
-    ermin: { x: 30, y: 24, w: 2, h: 4 },
+    kettle1: { x: 21, y: 29, w: 3, h: 3 },
+    kettle2: { x: 18, y: 29, w: 3, h: 3 },
+    ermin: { x: 29, y: 25, w: 3, h: 3 },
+    lamp: { x: 7, y: 2, w: 3, h: 2 },
 };
 
 var PALETTE = {
@@ -49,7 +52,9 @@ var BLOCKS = [
     ["white_bright", "ermin"],
     ["yellow_bright", "baddy1"],
     ["purple", "kettle1"],
-//    ["yellow_bright", "baddy2"],
+    ["red_bright", "roof1"],
+    ["red_bright", "roof2"],
+    ["yellow_bright", "lamp"],
 ];
 
 function Textures() {

diff --git a/src/jx.js b/src/jx.js
@@ -46,7 +46,7 @@ var GameState = function(game) {
         "kettle1": {
             seq: [ "kettle1", "kettle2" ],
             move: vertical_move,
-            speed: 100,
+            speed: 200,
             gravity: false
         }
     }
@@ -58,7 +58,7 @@ GameState.prototype.preload = function() {
 };
 
 GameState.prototype.create_player = function() {
-    this.player = this.game.add.sprite(this.game.width/8, 100, 'sprites', "ermin");
+    this.player = this.game.add.sprite(this.game.width/4, 100, 'sprites', "ermin");
     this.player.tint = 0xffffff;
     this.game.physics.enable(this.player, Phaser.Physics.ARCADE);
     this.player.body.maxVelocity.setTo(this.MAX_SPEED, this.MAX_SPEED * 2); // x, y
